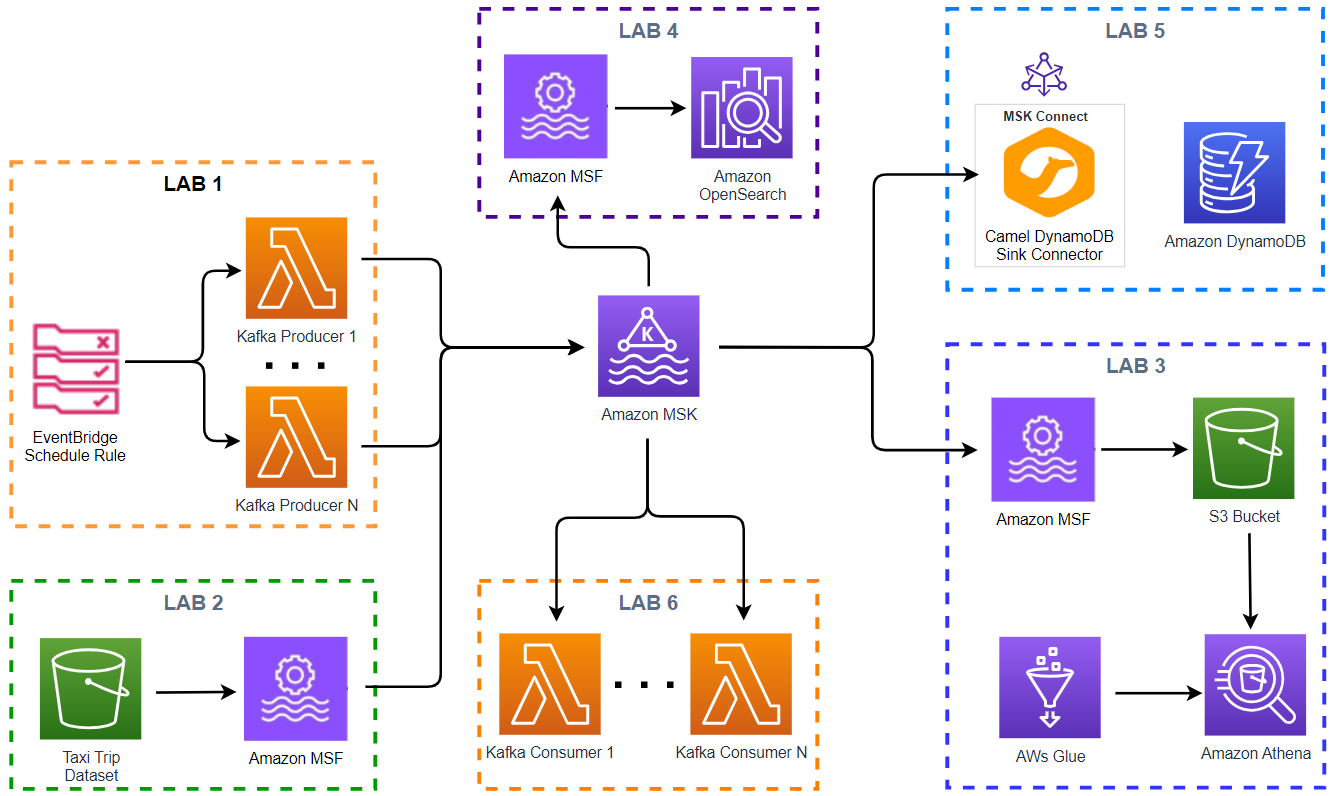
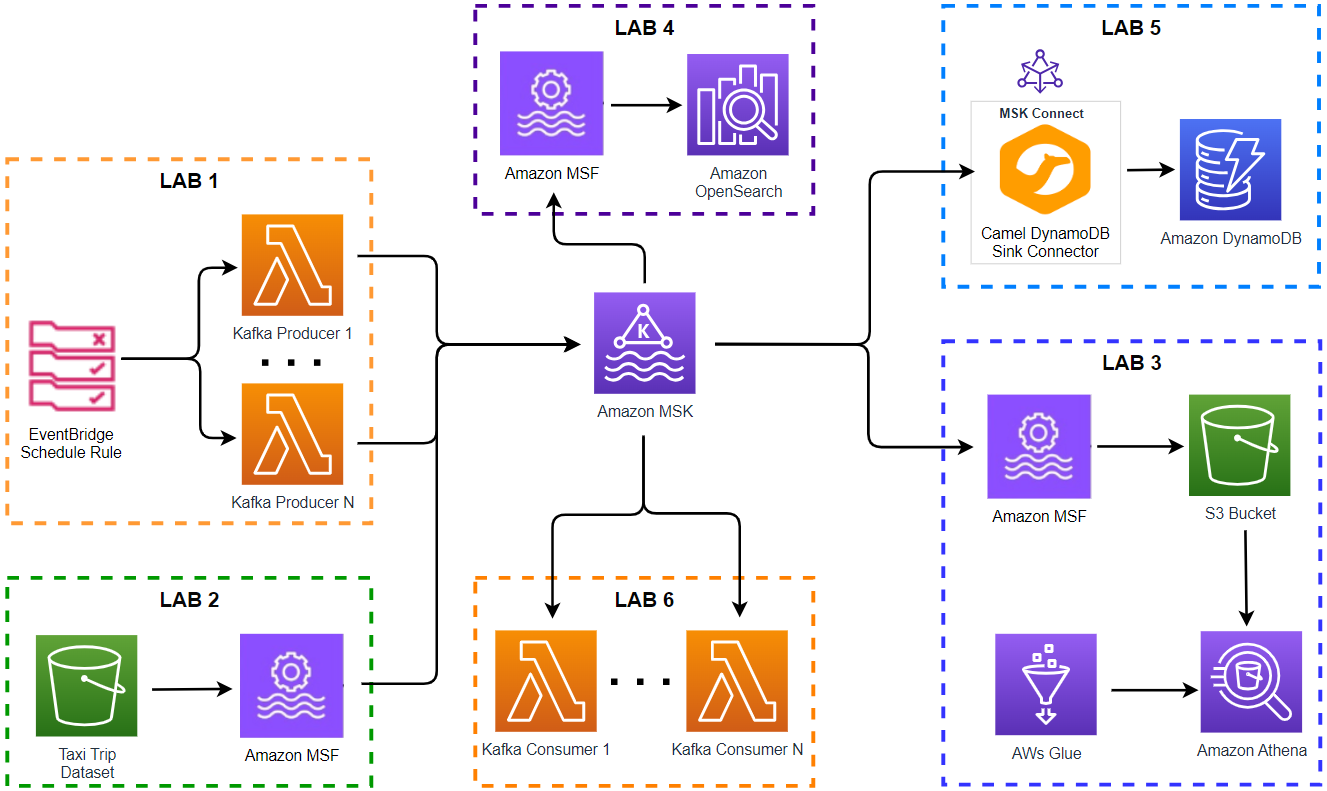
update feature image

diff --git a/content/blog/2023-10-05-real-time-streaming-with-kafka-and-flink-1/index.md b/content/blog/2023-10-05-real-time-streaming-with-kafka-and-flink-1/index.md
@@ -50,10 +50,10 @@ description: Real Time Streaming with Kafka and Flink updates an AWS workshop th
 
 * [Introduction](#) (this post)
 * Lab 1 Produce data to Kafka using Lambda
-* Lab 2 Write data from S3 to Kafka using MSF
-* Lab 3 Transform and write data into S3 from Kafka using MSF
+* Lab 2 Write data to Kafka from S3 using MSF
+* Lab 3 Transform and write data to S3 from Kafka using MSF
 * Lab 4 Clean, Aggregate, and Enrich Events with MSF
-* Lab 5 Kafka Connect to sink data into DynamoDB
+* Lab 5 Write data to DynamoDB using Kafka Connect
 * Lab 6 Consume data from Kafka using Lambda
 
 ## Workshop Architecture
@@ -79,14 +79,14 @@ description: Real Time Streaming with Kafka and Flink updates an AWS workshop th
 
 * Lab 1 - Produce data to Kafka using Lambda
   * We will create Kafka producers using an EventBridge schedule rule and Lambda producer function. The schedule rule is set to run *every minute* and has a *configurable* number of targets where each of them invokes the producer function. The producer function send messages to a Kafka cluster on [Amazon MSK](https://aws.amazon.com/msk/). In this way we are able to generate events using multiple Lambda functions according to the desired volume of events.
-* Lab 2 - Write data from S3 to Kafka using MSF
+* Lab 2 - Write data to Kafka from S3 using MSF
   * We will develop a Pyflink application that reads *Taxi Ride* data from S3 and inserts into Kafka. As [Apache Flink](https://flink.apache.org/) supports both stream and batch processing, we are able to process static data without an issue. This kind of exercise can be useful for data enrichment that joins static data into stream events. 
-* Lab 3 - Transform and write data into S3 from Kafka using MSF
+* Lab 3 - Transform and write data to S3 from Kafka using MSF
   * We will write Kafka messages to a S3 bucket using a Pyflink application. Although Kafka Connect supports simple data transformations by the [single message transforms](https://kafka.apache.org/documentation.html#connect_transforms), they are quite limited compared to the scope that Apache Flink supports. Note that writing data to S3 allows us to build a data lake with real time data.
 * Lab 4 - Clean, Aggregate, and Enrich Events with MSF
   * We will learn how to connect a Pyflink application to the existing Kafka topics and clean, aggregate, and enrich the incoming events. The derived insights are finally persisted in [Amazon OpenSearch Service](https://aws.amazon.com/opensearch-service/), where they can be accessed and visualized using OpenSearch Dashboard. 
   * Note that the OpenSearch Flink connector is supported on Apache Flink version 1.16+ where the [latest supported version of Amazon MSF](https://docs.aws.amazon.com/managed-flink/latest/java/earlier.html) is 1.15.2. Normally Amazon MSF lags two minor versions behind and a newer version would be supported by the time when the lab is performed - The release of [Apache Flink version 1.18](https://cwiki.apache.org/confluence/display/FLINK/1.18+Release) is expected at the end of September 2023.
-* Lab 5 - Kafka Connect to sink data into DynamoDB
+* Lab 5 - Write data to DynamoDB using Kafka Connect
   * We will learn how to write data into a DynamoDB table using [Kafka Connect](https://kafka.apache.org/documentation/#connect). *Kafka Connect* is a tool for scalably and reliably streaming data between Apache Kafka and other systems. [Apache Camel](https://camel.apache.org/manual/faq/what-is-camel.html) provides a number of open source [Kafka connectors](https://camel.apache.org/camel-kafka-connector) that can be used to integrate AWS services. 
 * Lab 6 - Consume data from Kafka using Lambda
   * We will consume and process data with a Lambda function. Lambda internally polls for new messages from Kafka topics and then synchronously invokes the target Lambda function. Lambda reads the messages in batches and provides these to your function as an event payload.
